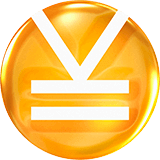
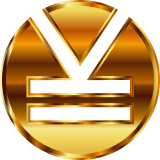
feat: new VAL token

diff --git a/tokens/README.md b/tokens/README.md
@@ -3,7 +3,7 @@
 | Token                             | Name    | Download                                                  |
 | --------------------------------- | ------- | --------------------------------------------------------- |
 | ![XOR](./SORA/svg/XOR.svg)        | XOR     | [svg](./SORA/svg/XOR.svg) [png](./SORA/png/XOR.png)       |
-| ![VAL](./SORA/png/VAL.png)        | VAL     | [png](./SORA/png/VAL.png)                                 |
+| ![VAL](./SORA/svg/VAL.svg)        | VAL     | [svg](./SORA/svg/VAL.svg) [png](./SORA/png/VAL.png)       |
 | ![PSWAP](./SORA/svg/PSWAP.svg)    | PSWAP   | [svg](./SORA/svg/PSWAP.svg) [png](./SORA/png/PSWAP.png)   |
 | ![TBCD](./SORA/svg/TBCD.svg)      | TBCD    | [svg](./SORA/svg/TBCD.svg) [png](./SORA/png/TBCD.png)     |
 | ![XST](./XST/svg/XST.svg)         | XST     | [svg](./XST/svg/XST.svg) [png](./XST/png/XST.png)         |
